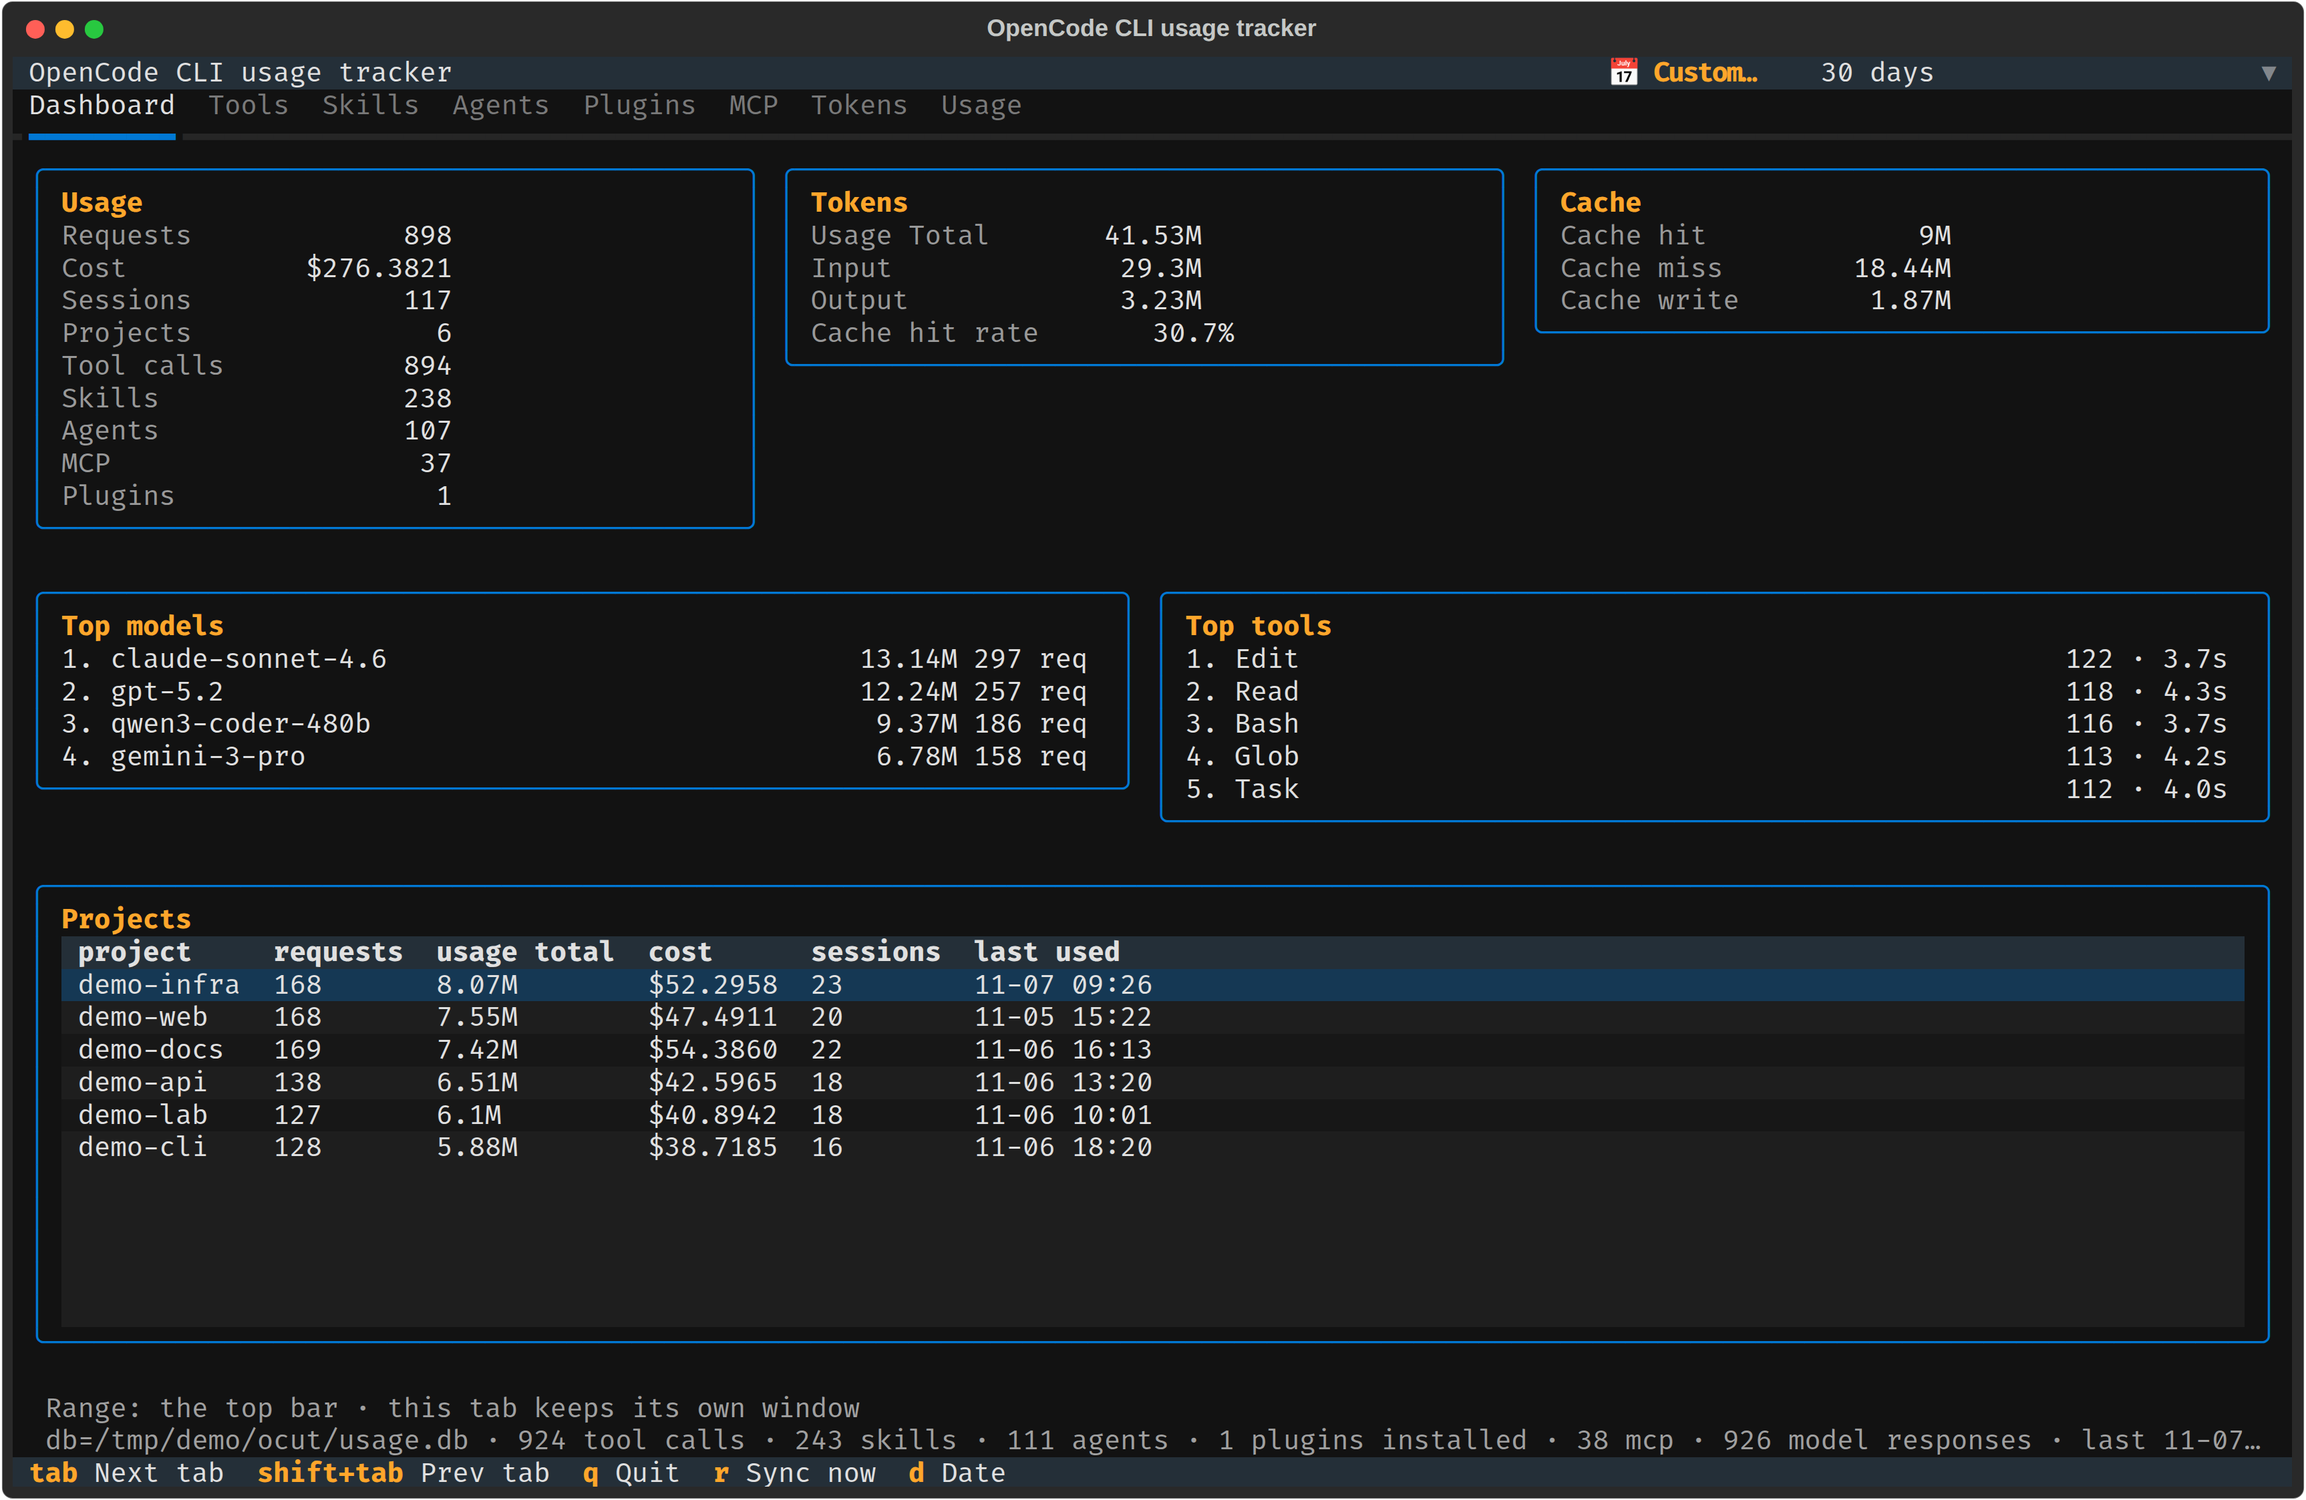
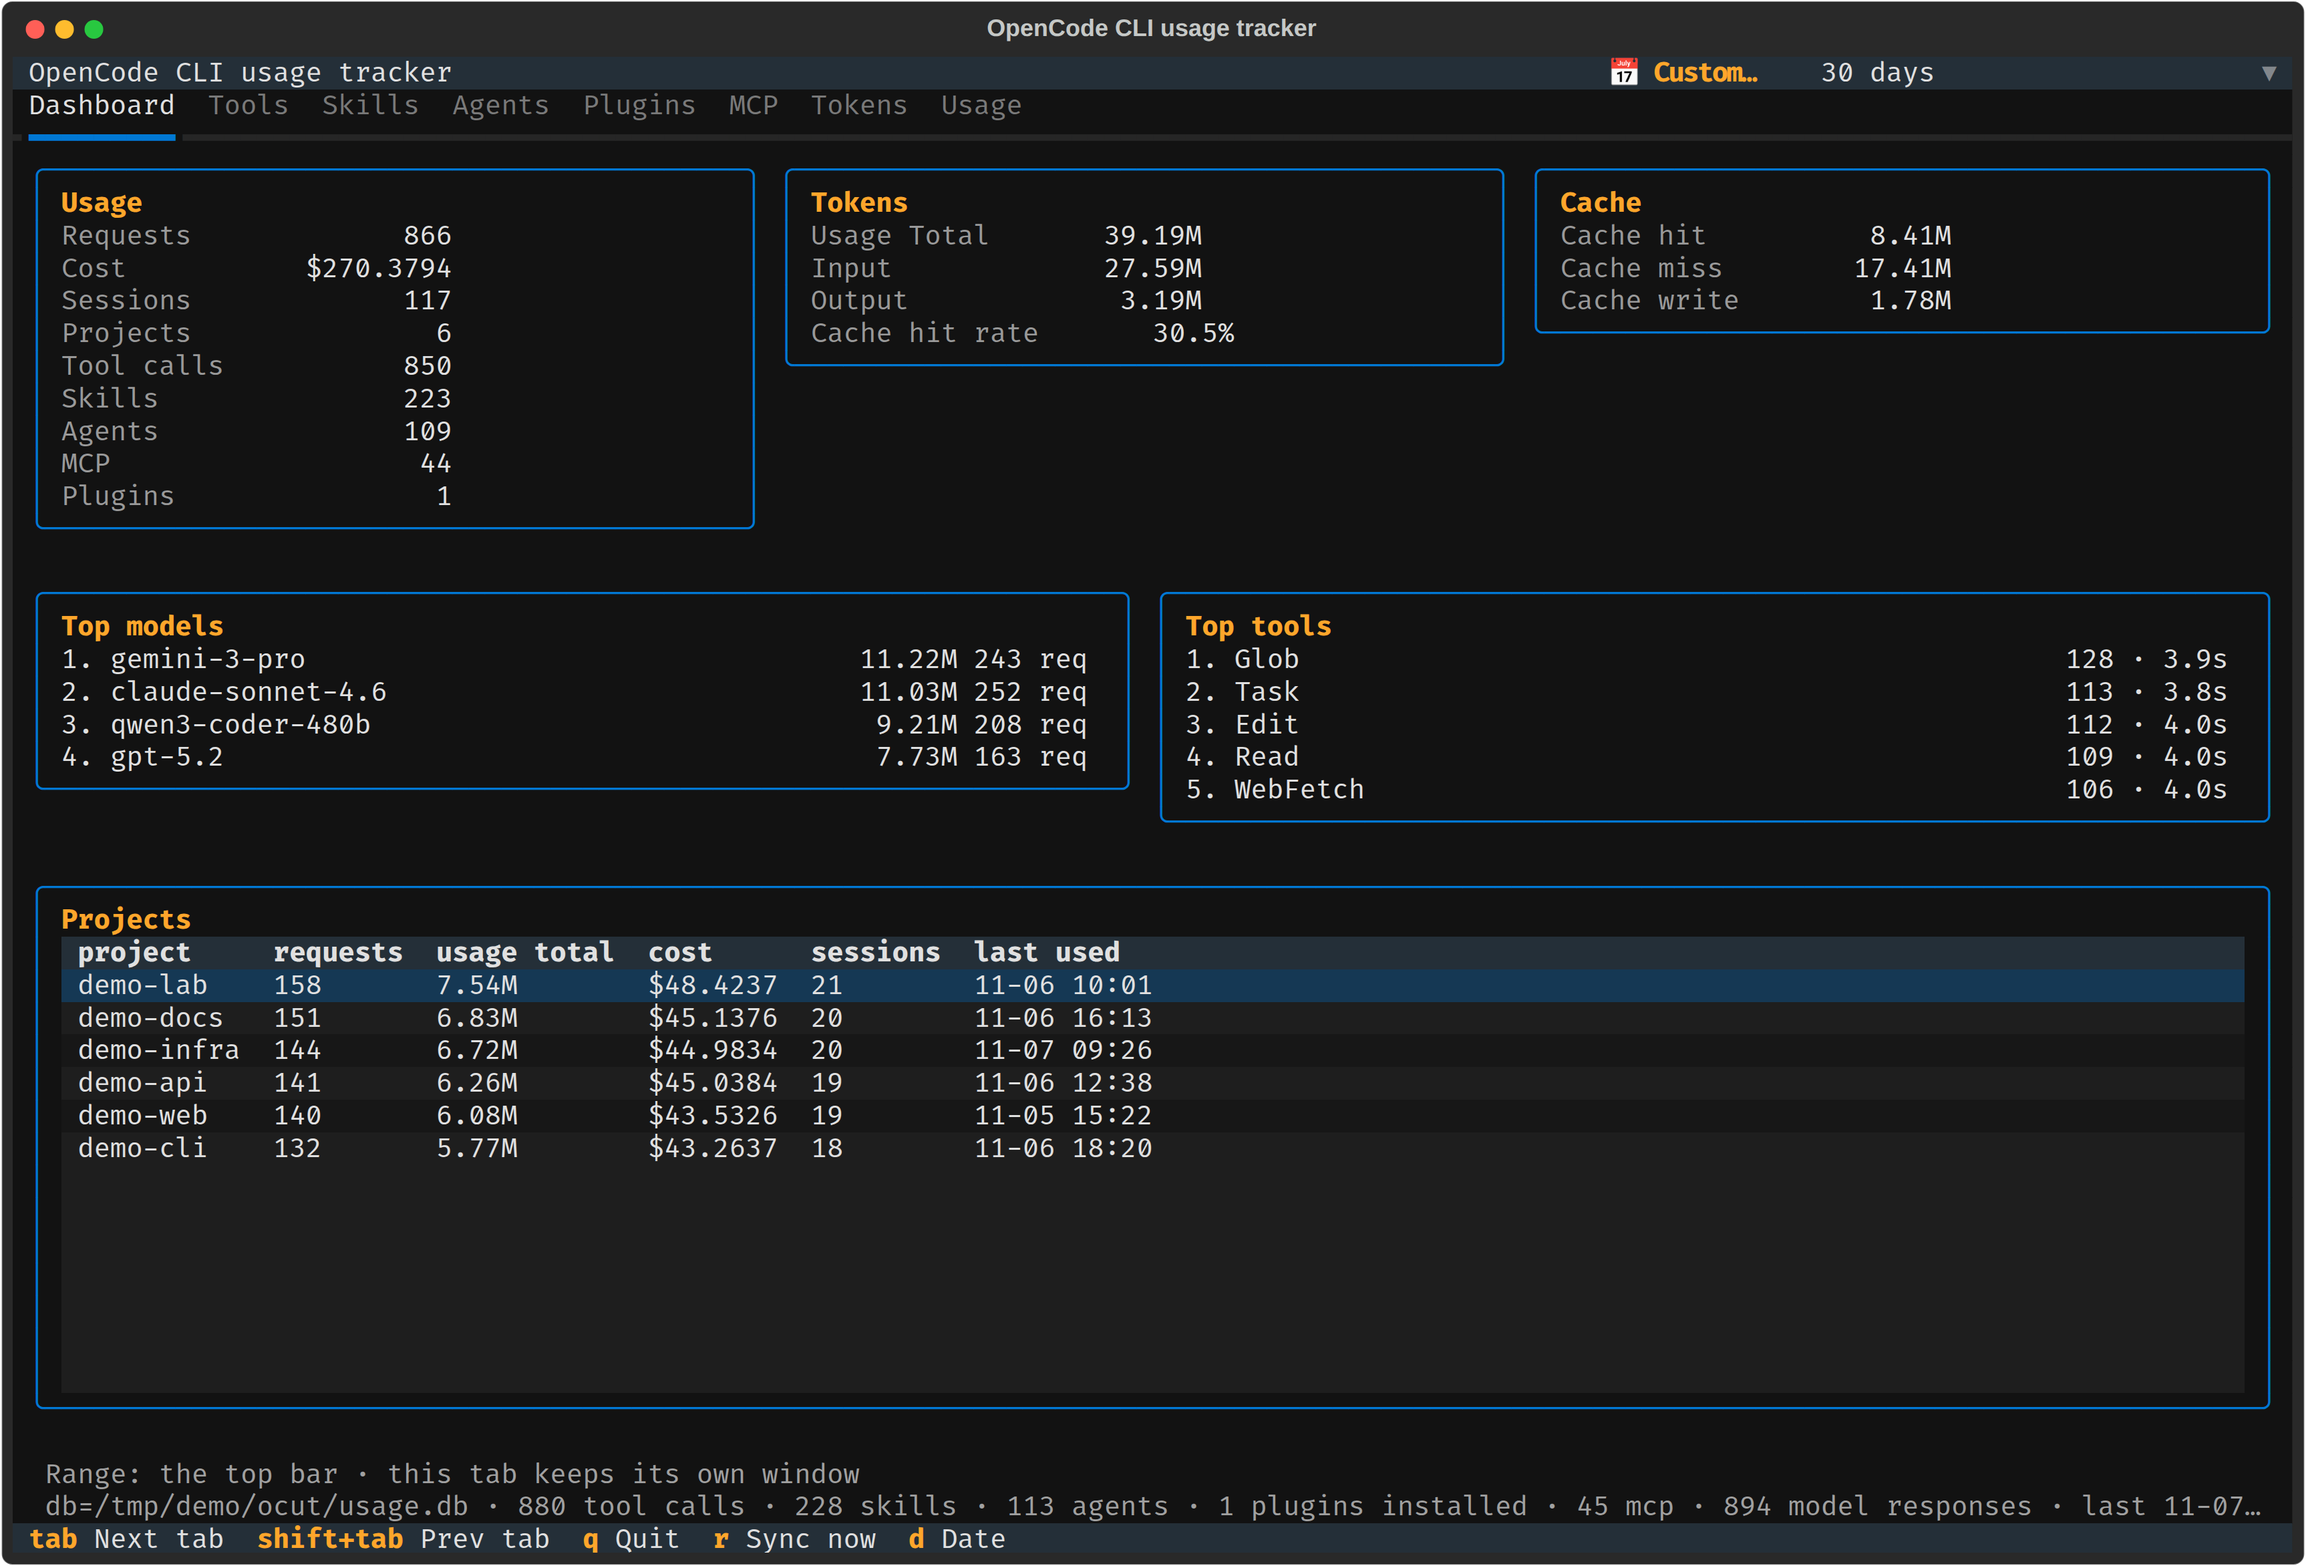
docs: walk every tab in the demo GIF and caption it
The clip now steps through the tabs in order instead of switching the range, and a caption under it names the action and what the feature shows. Both images were re-captured from a freshly seeded synthetic index with the host log and config directories redirected at empty /tmp paths, so no real tracker database was opened.

diff --git a/README.md b/README.md
@@ -180,7 +180,9 @@ bare TUI needs the venv. You can also point the launcher at a venv of your own w
 
 ## 🧭 Usage
 
-<p align="center"><img src="docs/screenshots/demo.gif" alt="Switching the window and opening a tab" width="900"></p>
+<p align="center"><img src="docs/screenshots/demo.gif" alt="Stepping through all eight tabs of the TUI" width="900"></p>
+
+<p align="center"><em><b>In the clip:</b> the tour starts on the Dashboard and steps through Tools, Skills, Agents, Plugins, MCP, Tokens and Usage. <b>What it shows:</b> one index built from OpenCode's own database, cut eight ways — tools and skills by name, agents by type, plugins by owner, tokens per model, and a request log — each tab with its own time window.</em></p>
 
 ### 🖥 Interactive TUI
 

diff --git a/README.zh-CN.md b/README.zh-CN.md
@@ -163,7 +163,9 @@ ln -sf "$PWD/bin/ocut" ~/.local/bin/ocut
 
 ## 🧭 使用
 
-<p align="center"><img src="docs/screenshots/demo.gif" alt="切换统计窗口与标签页" width="900"></p>
+<p align="center"><img src="docs/screenshots/demo.gif" alt="依次切换 TUI 的八个标签页" width="900"></p>
+
+<p align="center"><em><b>动图内容：</b>从仪表盘开始，依次走完工具、技能、代理、插件、MCP、Token、用量八个标签页。<b>展示的功能：</b>一份从 OpenCode 自己的数据库建起的索引，八种切法——工具与技能按名称、代理按类型、插件按归属、Token 按模型，再加一张请求日志——每个标签页各有自己的时间窗口。</em></p>
 
 ### 🖥 交互式 TUI
 
